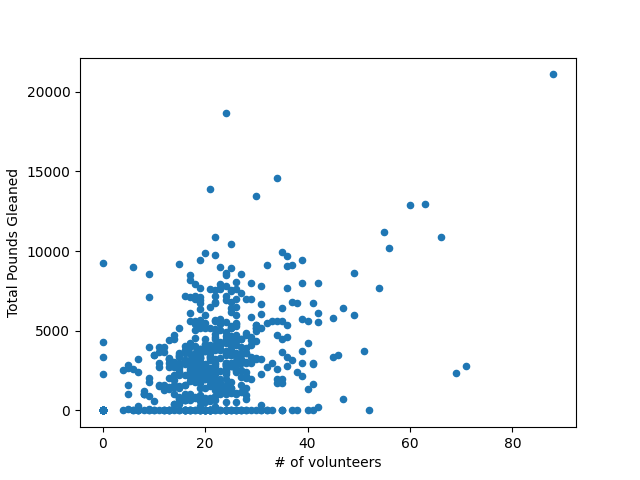
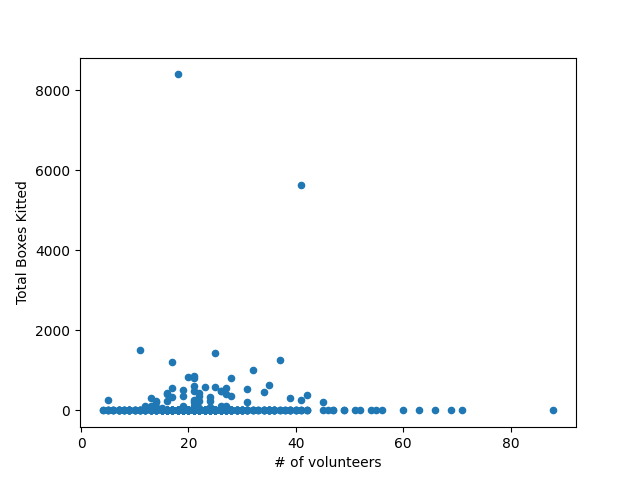
final attempt and garbage

diff --git a/fusedDataFrame.py b/fusedDataFrame.py
@@ -4,6 +4,7 @@ import datetime
 import pandas as pd
 import matplotlib.pyplot as plt
 from sklearn import linear_model
+from statistics import linear_regression
 
 #sets up the pages that are going to be used
 accomplish = pd.read_excel('accomplishment_2.xlsx', 
@@ -72,6 +73,10 @@ for i in range(len(accomplish)):
 
 
 accomplish = accomplish[accomplish["# of volunteers"] != 0]
+#accomplish = accomplish[accomplish['Total Pounds Gleaned'] != 0]
+#accomplish = accomplish[accomplish['Total Boxes Kitted'] != 0]
+#accomplish = accomplish[accomplish['Total Pounds of Reclamation'] != 0]
+#accomplish = accomplish[accomplish['Backpack program'] != 0]
 
 #makes the sheets
 golden.to_excel('GoldenPackage.xlsx', index = False)
@@ -79,8 +84,19 @@ accomplish.to_excel('AccomplishmentPackage.xlsx', index = False)
 
 
 #makes the plots for me
-#accomplish.plot(kind = 'scatter', x = '# of volunteers', y = "Total Pounds Gleaned")
-#plt.savefig("boxestrial.png")
+accomplish.plot(kind = 'scatter', x = '# of volunteers', y = "Total Pounds Gleaned")
+plt.savefig("gleantrial.png")
+
+accomplish.plot(kind = 'scatter', x = '# of volunteers', y = 'Total Boxes Kitted')
+plt.savefig("boxestrial.png")
+
+accomplish.plot(kind = 'scatter', x = '# of volunteers', y = 'Total Pounds of Reclamation')
+plt.savefig("reclaimtrial.png")
+
+accomplish.plot(kind = 'scatter', x = '# of volunteers', y = 'Backpack program')
+plt.savefig("backpacktrial.png")
+
+
 
 #seperate plot
 #plt.scatter(accomplish['# of volunteers'],accomplish['Total Pounds Gleaned'], color = 'lightcoral')
@@ -97,14 +113,28 @@ accomplish.to_excel('AccomplishmentPackage.xlsx', index = False)
 #accomplishment stats
 print(accomplish.describe())
 
+
+#predict the # of volunteer base on the number of gleaned, reclaimed, kitted, and backpacks:
 X = accomplish[['Total Pounds Gleaned', 'Total Boxes Kitted', 'Total Pounds of Reclamation', 'Backpack program']]
+#X = accomplish[['Total Pounds Gleaned']]
 y = accomplish['# of volunteers']
 
 regr = linear_model.LinearRegression()
 regr.fit(X, y)
 
-#predict the # of volunteer base on the number of gleaned, reclaimed, kitted, and backpacks:
-predictedCO2 = regr.predict([[4000, 0, 0, 200]])
+predictedCO2 = regr.predict([[4000, 0, 0, 400]])
+#predictedCO2 = regr.predict([[4000]])
 
 print(predictedCO2)
 print(regr.coef_)
+
+#predict the # of volunteer base on the number of gleaned, reclaimed, kitted, and backpacks:
+#A = accomplish[['Total Pounds Gleaned']]
+#b = accomplish['# of volunteers']
+
+#regre = linear_model.LinearRegression()
+#regre.fit(A, b)
+
+#predictedCO = regre.predict([[100]])
+
+#print(predictedCO)
